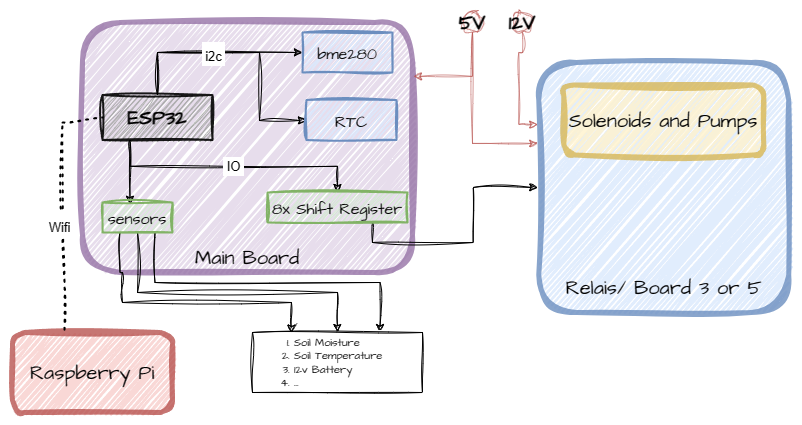
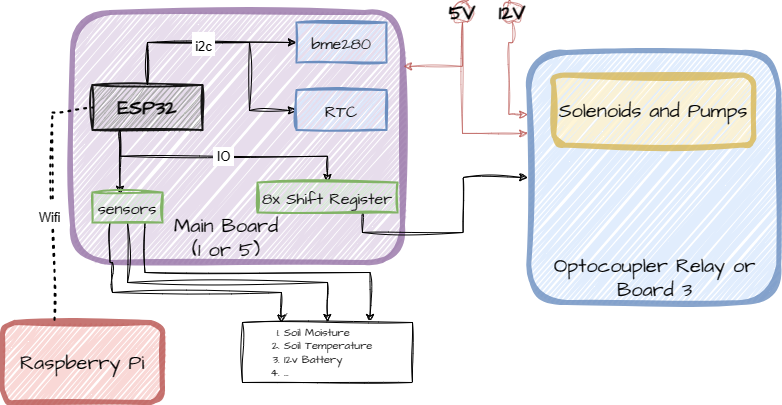
clarify boards documentation
clarify what the boards are for and how they are intended

Changed region(s): [[0.0, 0.0, 1.0, 1.0]]

diff --git a/README.md b/README.md
@@ -43,7 +43,7 @@ Das System ist mit einem kleinen PV-Modul, einem Blei-Akku und einem kleinen 100
  System Setup:                  | Solar Setup:
 :-------------------------:|:-------------------------:
 ![System](/docs/pictures/SystemdiagrammV3_3.png "Systemdiagramm 3.3") | ![Solar](/docs/pictures/systemdiagramSolar.png "Solar diagramm 3.3")
-(zeigt grobe Skizzierung des Systems)
+zeigt grobe Skizzierung des Systems, Details zu Platinen siehe [(Details)](#details)
 
 ## Steuerung des Systems
 
@@ -257,11 +257,13 @@ Die Schaltungen wurden mit Fritzing erstellt, die Steckbrettansicht bietet gute 
  Board 1:                  | Board 3:                  | Board 5:
 :-------------------------:|:-------------------------:|:-------------------------:
 ![Board1](/docs/pictures/bewae3_3_board1v3_838_Leiterplatte.png) | ![Board3](/docs/pictures/bewae3_3_board3v22_Leiterplatte.png) | ![Board5](/docs/pictures/bewae3_3_board5v5_final_Leiterplatte.png)
-Main Board | Extention Board | Main Board
+Main Board (Älteres testboard) | Extention Board | Main Board (neustes) <br> 
+
+Steuerung der Ventile entweder über Optokoppler Relais (bis zu 8x mit adaption mehr) oder Externe beschaltung Board 3 und ähnliche.
 
 #### **bewae3_3_board1v3_838.fzz** Hauptplatine (PCB)
 
-Große Hauptplatine. Platz für bis zu 16 analoge Sensoren sowie BME280- und RTC-Modul über I2C. 8 Pins für Ventile/Pumpen (erweiterbar). Diese können entweder über Relais oder dem PCB Board 3 einfach verwendet werden.<br>
+Große Hauptplatine. Erfordert Board 3 oder externe Beschaltung für große Anzahl an analoger Sensoren. <br> Platz für bis zu 16 analoge Sensoren sowie BME280- und RTC-Modul über I2C. 8 Pins für Ventile/Pumpen (erweiterbar). Diese können entweder über Relais oder dem PCB Board 3 einfach verwendet werden.<br>
 
 #### **bewae3_3_board3v22.fzz** als Erweiterung (PCB)
 
@@ -269,7 +271,8 @@ Als Erweiterung gedacht. Hat den Zweck, Steckplätze für Sensoren und weitere V
 
 #### **bewae3_3_board5v5_final.fzz** als Hauptplatine (PCB)
 
-Kleinere Hauptplatine. Verzichtet auf eine große Anzahl an Sensoranschlüssen. Platz für 2x 5V Sensoren, 2x 3V Sensoren, 1x LDR, I2C-Bus, 1-Wire-Bus. BME280- und RTC-Modul sind ebenfalls vorgesehen.<br>
+Kleinere Hauptplatine (neueste). bietet die möglichkeit für eine Begrenzte anzahl an analogen Sensoren direkt am Board.
+Verzichtet jedoch auf eine größere Anzahl an (analogen) Sensoranschlüssen. <br> Platz für 2x 5V Sensoren, 2x 3V Sensoren, 1x LDR, I2C-Bus, 1-Wire-Bus. BME280- und RTC-Modul sind ebenfalls vorgesehen.<br>
 
 ### aktueller Aufbau
 

diff --git a/README_EN.md b/README_EN.md
@@ -42,7 +42,7 @@ The system is equipped with a small PV module, a lead-acid battery, and a small 
  System Setup:                  | Solar Setup:
 :-------------------------:|:-------------------------:
 ![System](/docs/pictures/SystemdiagrammV3_3.png "System Diagram 3.3") | ![Solar](/docs/pictures/systemdiagramSolar.png "Solar Diagram 3.3")
-(Shows a rough outline of the system)
+shows rough sketch of the system, for details on circuit boards see [(details)](#details)
 
 ## System Control
 
@@ -255,11 +255,13 @@ The circuits were created with Fritzing, and the breadboard view provides a good
  Board 1:                  | Board 3:                  | Board 5:
 :-------------------------:|:-------------------------:|:-------------------------:
 ![Board1](/docs/pictures/bewae3_3_board1v3_838_Leiterplatte.png) | ![Board3](/docs/pictures/bewae3_3_board3v22_Leiterplatte.png) | ![Board5](/docs/pictures/bewae3_3_board5v5_final_Leiterplatte.png)
-Main Board | Extension Board | Main Board
+Main Board (Older test board) | Extention Board | Main Board (latest) <br> 
+
+Control of the valves either via optocoupler relay (up to 8x with adaption more) or external circuit board 3 and similar.
 
 #### **bewae3_3_board1v3_838.fzz** Main Board (PCB)
 
-Large main board. Room for up to 16 analog sensors as well as BME280 and RTC module via I2C. 8 pins for valves/pumps (expandable). These can be easily used either via relays or PCB Board 3.<br>
+Large main board. Requires board 3 or external wiring for a large number of analogue sensors. <br> Room for up to 16 analog sensors as well as BME280 and RTC module via I2C. 8 pins for valves/pumps (expandable). These can be easily used either via relays or PCB Board 3.<br>
 
 #### **bewae3_3_board3v22.fzz** as Extension (PCB)
 
@@ -267,7 +269,7 @@ Intended as an extension. It aims to provide slots for sensors and additional co
 
 #### **bewae3_3_board5v5_final.fzz** as Main Board (PCB)
 
-Smaller main board. Avoids a large number of sensor connections. Room for 2x 5V sensors, 2x 3V sensors, 1x LDR, I2C bus, 1-Wire bus. BME280 and RTC module are also provided.<br>
+Smaller main board (latest). offers the possibility for a limited number of analogue sensors directly on the board. <br> Avoids a large number of sensor connections. Room for 2x 5V sensors, 2x 3V sensors, 1x LDR, I2C bus, 1-Wire bus. BME280 and RTC module are also provided.<br>
 
 ### Current Setup
 
